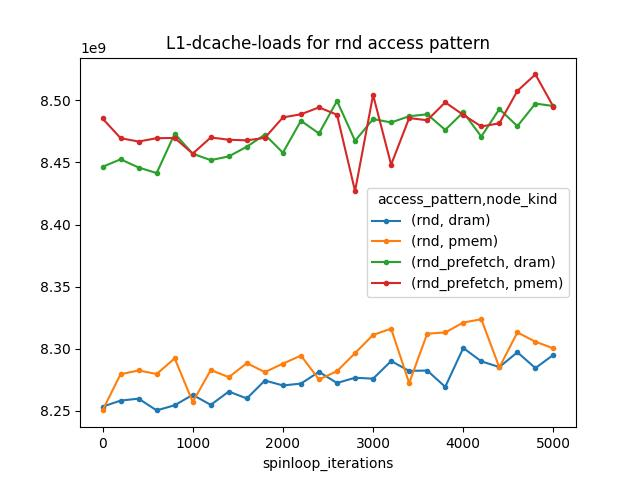
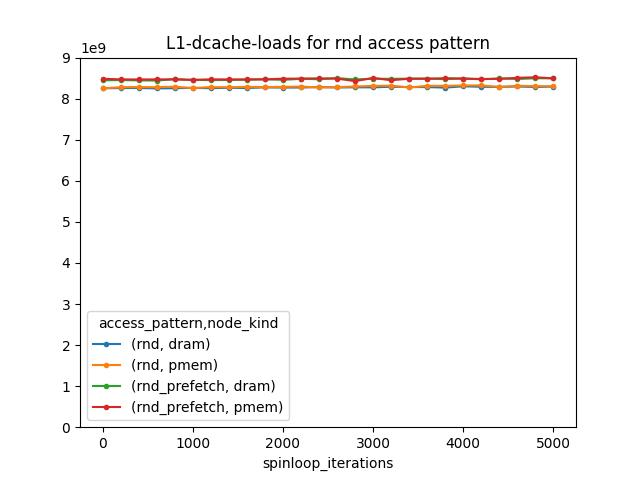
fixing plot scales

diff --git a/scripts/genplots.py b/scripts/genplots.py
@@ -30,6 +30,30 @@ METRICS = [
     "instructions"
 ]
 
+YMAX = {
+    "throughput": 50000,
+    "seconds-time-elapsed": 200,
+    "cache-misses": 2e8,
+    "L1-dcache-load-misses": 2e8,
+    "L1-dcache-loads": 9e9,
+    "LLC-load-misses": 2e8,
+    "LLC-loads": None,
+    "LLC-store-misses": None,
+    "LLC-stores": None,
+    "l1d_pend_miss.pending": 1.75e11,
+    "l1d_pend_miss.pending_cycles": None,
+    "l1d.replacement": None,
+    "l1d_pend_miss.fb_full": None,
+    "sw_prefetch_access.nta": 1.2e8,
+    "sw_prefetch_access.prefetchw": None,
+    "sw_prefetch_access.t0": None,
+    "sw_prefetch_access.t1_t2": None,
+    "branch-misses": None,
+    "branches": None,
+    "cpu-cycles": None,
+    "instructions": None,
+}
+
 
 def plot_access(data, access_pattern, metric, node_type=None, logy=False, ymax=None):
     if node_type is None:
@@ -67,10 +91,7 @@ def gen_spinloop_plots(data):
     for m in METRICS:
         print(m)
         for p in patterns:
-            if m == 'throughput':
-                plot_access(data, p, m, ymax=50000)
-            else:
-                plot_access(data, p, m)
+            plot_access(data, p, m, ymax=YMAX[m])
 
 
 def gen_baseline_plots(data):
